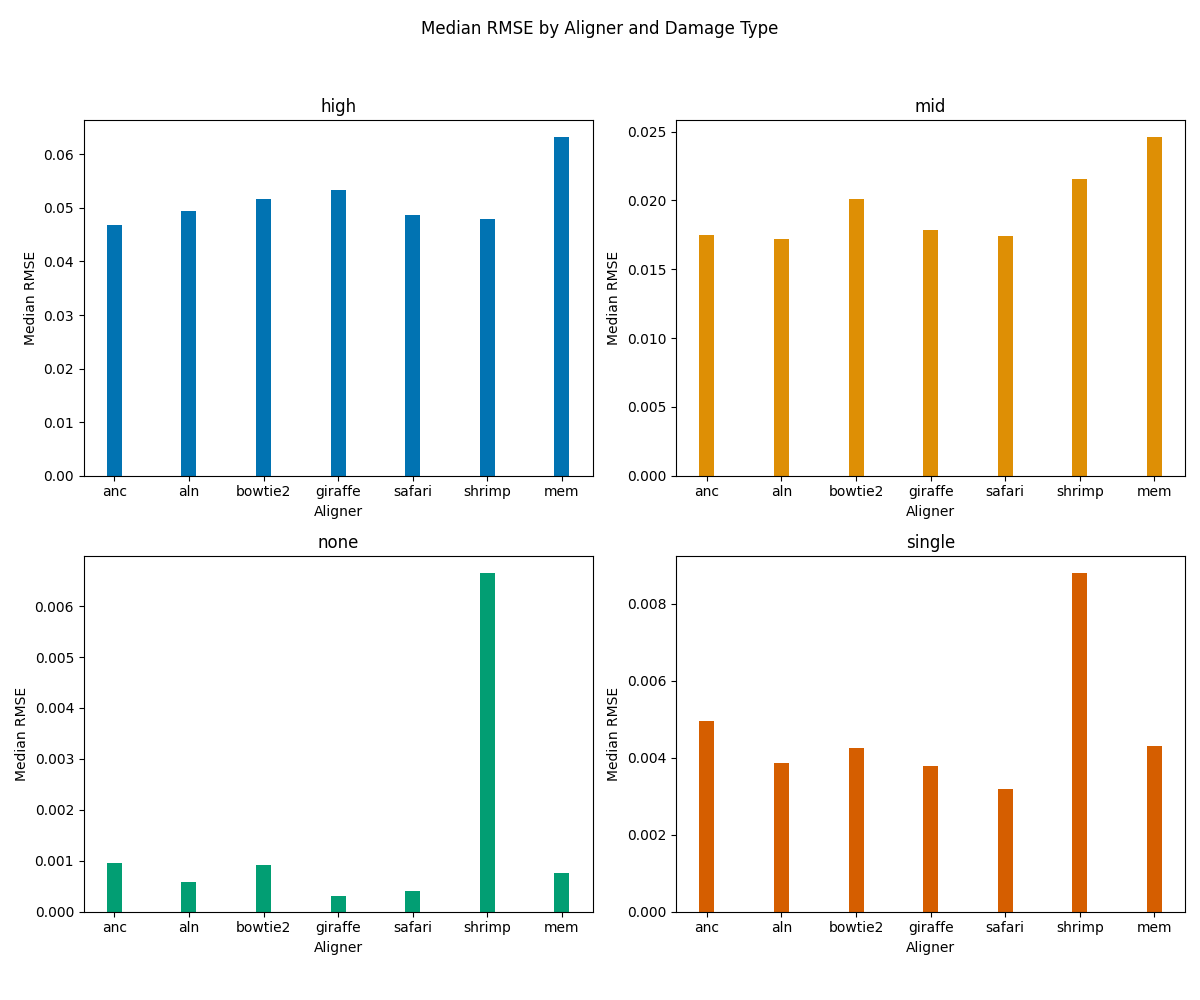
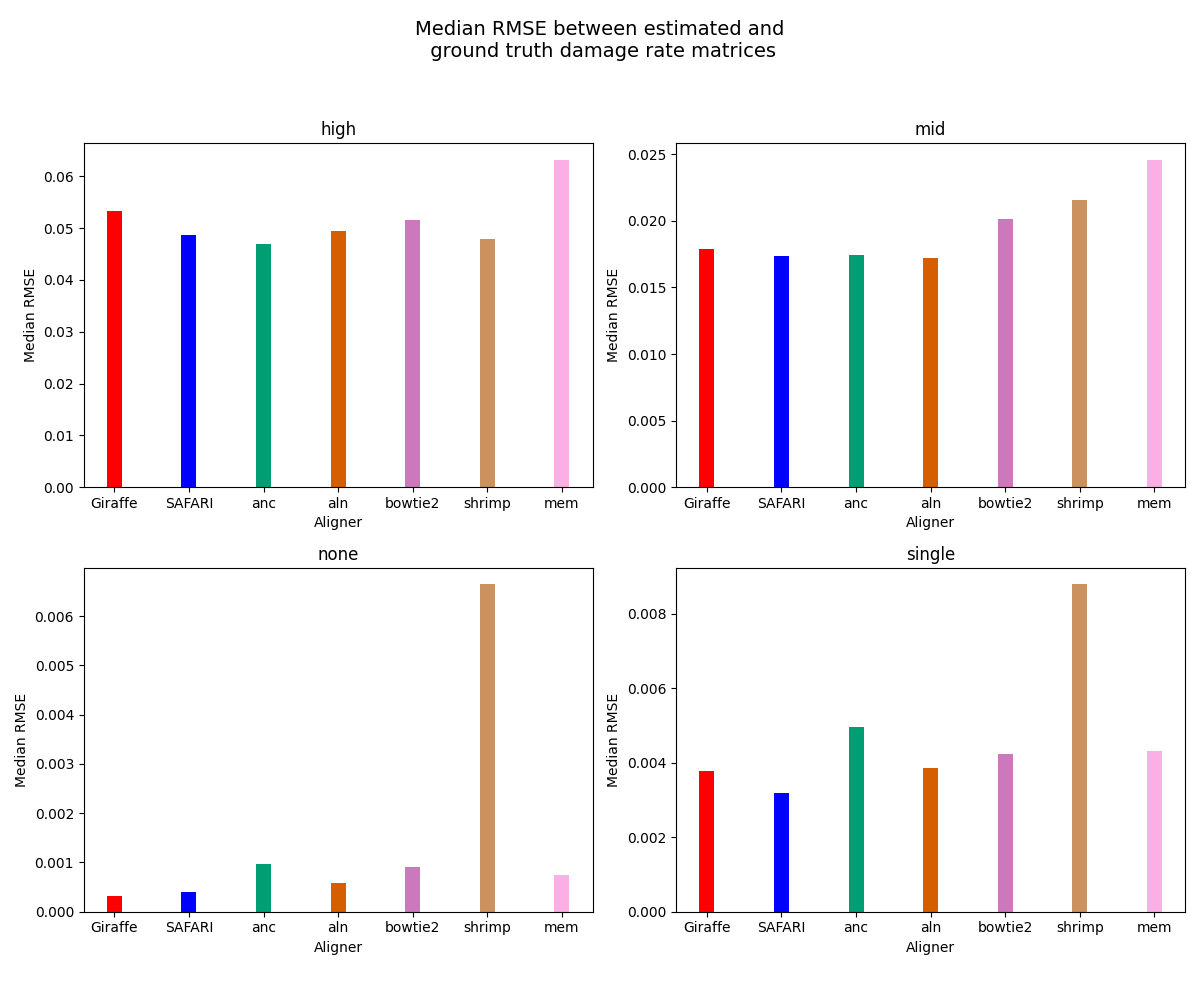
Update

diff --git a/linear_experiment/human_mito/compare_damage_est.py b/linear_experiment/human_mito/compare_damage_est.py
@@ -99,24 +99,30 @@ def filter_rmse_data_for_giraffe_and_safari(rmse_data):
 
 def plot_rmse(rmse_data, rmse_sample_count_data, plot_title, save_file_name):
     colorblind_colors = ['#0173B2', '#DE8F05', '#029E73', '#D55E00', '#CC78BC', '#CA9161', '#FBAFE4']
-    aligners = list(rmse_data.keys())
+    aligners = ['giraffe', 'safari'] + [a for a in rmse_data.keys() if a not in ['giraffe', 'safari']]
+    display_labels = {'giraffe': 'Giraffe', 'safari': 'SAFARI'}
     damage_types = list(rmse_data[aligners[0]].keys())
     
     x = np.arange(len(aligners))
     width = 0.2
 
     fig, axs = plt.subplots(2, 2, figsize=(12, 10))
-    fig.suptitle(plot_title)
+    fig.suptitle("Median RMSE between estimated and\n ground truth damage rate matrices", fontsize=14)
 
     for i, damage_type in enumerate(damage_types):
         ax = axs[i // 2, i % 2]
         rmse_values = [rmse_data[aligner][damage_type] for aligner in aligners]
-        ax.bar(x, rmse_values, width, label=damage_type, color=colorblind_colors[i])
-        ax.set_xlabel('Aligner')
+        
+        for j, aligner in enumerate(aligners):
+            color = colorblind_colors[j] if aligner not in ['giraffe', 'safari'] else ('#FF0000' if aligner == 'giraffe' else '#0000FF')
+            label = display_labels.get(aligner, aligner)
+            ax.bar(x[j], rmse_values[j], width, label=label, color=color)
+        
+        ax.set_xlabel('Aligner', fontweight='bold' if aligner in ['giraffe', 'safari'] else 'normal')
         ax.set_ylabel('Median RMSE')
         ax.set_title(damage_type)
         ax.set_xticks(x)
-        ax.set_xticklabels(aligners)
+        ax.set_xticklabels([display_labels.get(aligner, aligner) for aligner in aligners], fontweight='bold' if aligner in ['giraffe', 'safari'] else 'normal')
 
     fig.tight_layout(rect=[0, 0.03, 1, 0.95])
     plt.savefig(save_file_name)
@@ -124,7 +130,7 @@ def plot_rmse(rmse_data, rmse_sample_count_data, plot_title, save_file_name):
     for aligner in aligners:
         for damage_type in damage_types:
             sample_count = rmse_sample_count_data[aligner][damage_type]
-            print(f'Median rmse for {aligner} with damage_type {damage_type}: {rmse_data[aligner][damage_type]} (based on {sample_count} samples)')
+            print(f'Median RMSE for {aligner} with damage_type {damage_type}: {rmse_data[aligner][damage_type]} (based on {sample_count} samples)')
 
 def check_data(damage_data_dict, prof_data_dict):
     rmse_values_data = defaultdict(lambda: defaultdict(list))
